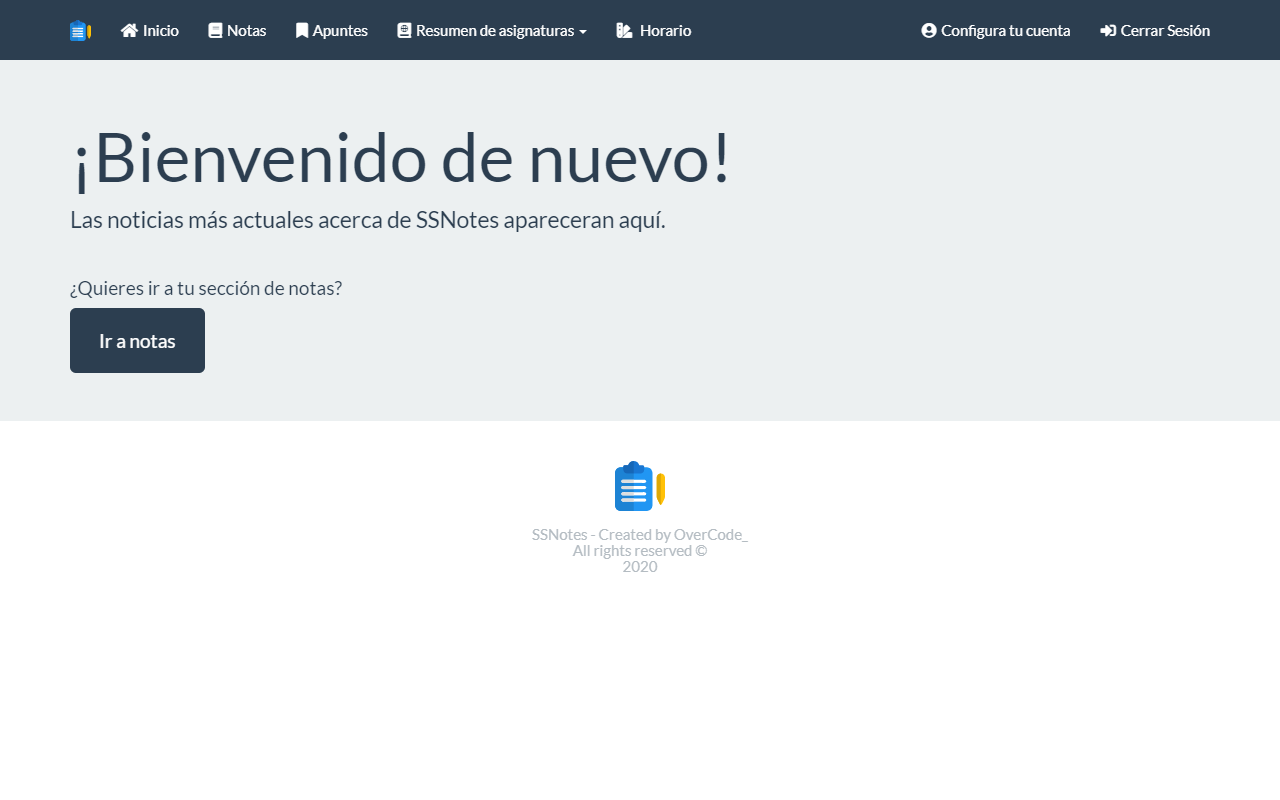
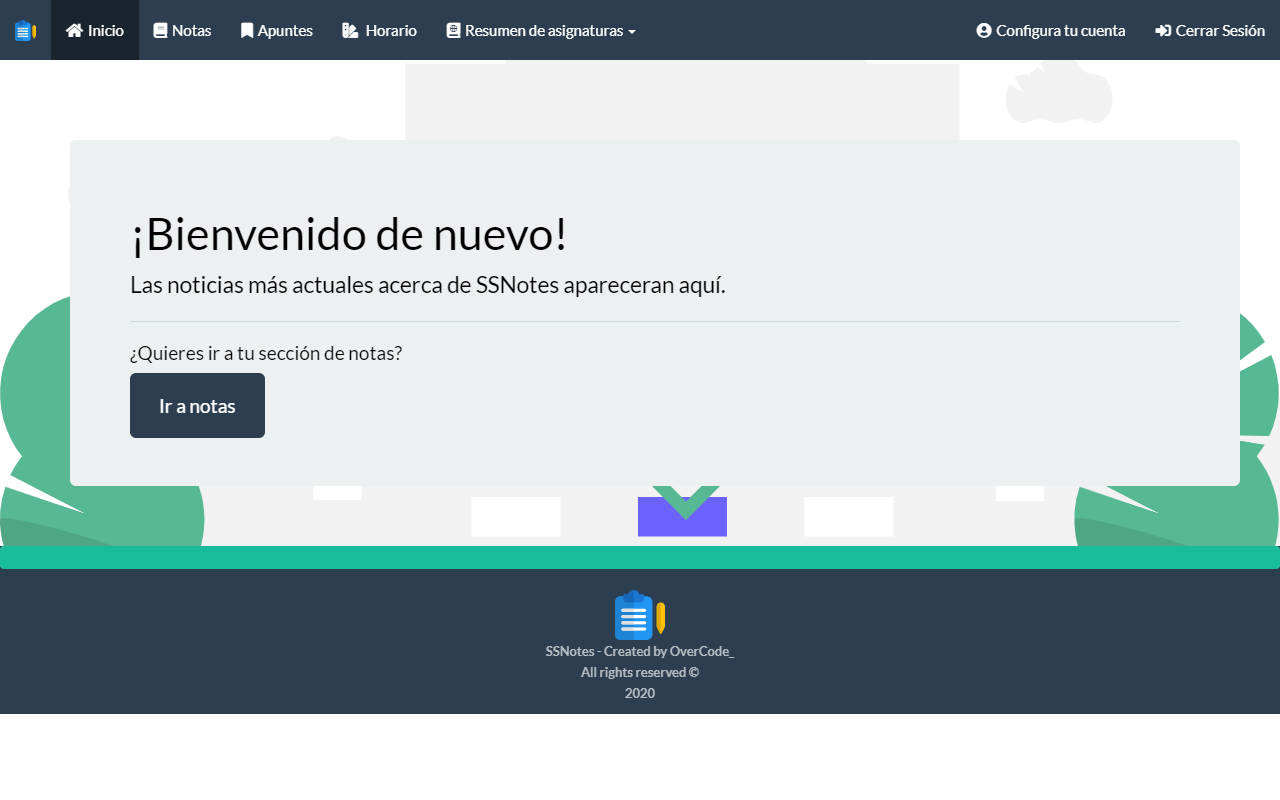
Se quitó carpeta de imágenes que estaba de más y se arreglaron 2 bugs, uno que no mostraba el navbar en smartphones y el otro que el navbar se fusionaba con los demás componentes haciendo que estos no actuaran por cuenta propia.

diff --git a/static/css/custom.min.css b/static/css/custom.min.css
@@ -22,7 +22,6 @@ body > .navbar {
 #home .navbar-brand > img {
     display: inline;
     margin: 0 10px;
-    height: 100%;
 }
 #banner {
     min-height: 300px;

diff --git a/panel/components/navbar.php b/panel/components/navbar.php
@@ -1,11 +1,19 @@
-<div class="navbar navbar-default navbar-fixed-top">
-    <div class="container">
+<nav class="navbar navbar-default navbar-fixed-top">
+    <div class=" container-fluid">
         <div class="navbar-header">
+            <button type="button" class="navbar-toggle collapsed" data-toggle="collapse"
+                data-target="#bs-example-navbar-collapse-1">
+                <span class="sr-only"></span>
+                <span class="icon-bar"></span>
+                <span class="icon-bar"></span>
+                <span class="icon-bar"></span>
+            </button>
             <img src="../static/img/logo.svg" alt="SSNotes" class="navbar-brand">
         </div>
-        <div class="navbar-collapse collapse" id="navbar-main">
+
+        <div class="collapse navbar-collapse" id="bs-example-navbar-collapse-1">
             <ul class="nav navbar-nav">
-                <li class="dropdown">
+                <li class="active">
                     <a href="index.php"><i class="fas fa-home" style="padding-right:5px"></i>Inicio</a>
                 </li>
                 <li>
@@ -14,12 +22,15 @@
                 <li>
                     <a href="#"><i class="fas fa-bookmark" style="padding-right:5px"></i>Apuntes</a>
                 </li>
+                <li>
+                    <a href="#"><i class="fas fa-swatchbook" style="padding-right:5px"></i> Horario</a>
+                </li>
                 <li class="dropdown">
                     <a class="dropdown-toggle" data-toggle="dropdown" href="#" id="download">
-                    <i class="fas fa-atlas" style="padding-right:5px"></i>Resumen de asignaturas <span
+                        <i class="fas fa-atlas" style="padding-right:5px"></i>Resumen de asignaturas <span
                             class="caret"></span></a>
                     <ul class="dropdown-menu" aria-labelledby="download">
-                        <li><a href="https://jsfiddle.net/bootswatch/jmg3gykg/">Cálculo</a></li>
+                        <li><a href="#">Cálculo</a></li>
                         <li class="divider"></li>
                         <li><a href="#">Bases de datos 1</a></li>
                         <li><a href="#">Desarrollo de software 1</a></li>
@@ -31,16 +42,11 @@
                         <li><a href="#">Introducción a la gestión ambiental</a></li>
                     </ul>
                 </li>
-                <li>
-                    <a href="#"><i class="fas fa-swatchbook" style="padding-right:5px"></i> Horario</a>
-                </li>
             </ul>
-
             <ul class="nav navbar-nav navbar-right">
                 <li><a href="#"><i class="fas fa-user-circle" style="padding-right:5px"></i>Configura tu cuenta</a></li>
                 <li><a href="#"><i class="fas fa-sign-in-alt" style="padding-right:5px"></i>Cerrar Sesión</a></li>
             </ul>
-
         </div>
     </div>
-</div>
+    

diff --git a/panel/layouts/scripts.php b/panel/layouts/scripts.php
@@ -1,11 +1,11 @@
 <!-- Optional JavaScript -->
-<!-- jQuery first, then Popper.js, then Bootstrap JS -->
-<script src="https://code.jquery.com/jquery-3.5.1.slim.min.js"
-    integrity="sha384-DfXdz2htPH0lsSSs5nCTpuj/zy4C+OGpamoFVy38MVBnE+IbbVYUew+OrCXaRkfj" crossorigin="anonymous">
-</script>
-<script src="https://cdn.jsdelivr.net/npm/popper.js@1.16.0/dist/umd/popper.min.js"
-    integrity="sha384-Q6E9RHvbIyZFJoft+2mJbHaEWldlvI9IOYy5n3zV9zzTtmI3UksdQRVvoxMfooAo" crossorigin="anonymous">
-</script>
-<script src="https://stackpath.bootstrapcdn.com/bootstrap/4.5.0/js/bootstrap.min.js"
-    integrity="sha384-OgVRvuATP1z7JjHLkuOU7Xw704+h835Lr+6QL9UvYjZE3Ipu6Tp75j7Bh/kR0JKI" crossorigin="anonymous">
-</script>
+    <!-- jQuery first, then Popper.js, then Bootstrap JS -->
+    <script src="https://code.jquery.com/jquery-3.5.1.slim.min.js"
+        integrity="sha384-DfXdz2htPH0lsSSs5nCTpuj/zy4C+OGpamoFVy38MVBnE+IbbVYUew+OrCXaRkfj" crossorigin="anonymous">
+    </script>
+    <script src="https://cdn.jsdelivr.net/npm/popper.js@1.16.0/dist/umd/popper.min.js"
+        integrity="sha384-Q6E9RHvbIyZFJoft+2mJbHaEWldlvI9IOYy5n3zV9zzTtmI3UksdQRVvoxMfooAo" crossorigin="anonymous">
+    </script>
+    <script src="https://stackpath.bootstrapcdn.com/bootstrap/4.5.0/js/bootstrap.min.js"
+        integrity="sha384-OgVRvuATP1z7JjHLkuOU7Xw704+h835Lr+6QL9UvYjZE3Ipu6Tp75j7Bh/kR0JKI" crossorigin="anonymous">
+    </script>

diff --git a/panel/components/footer.php b/panel/components/footer.php
@@ -1,13 +1,15 @@
-<div class="container mx-auto" style="width: 400px;">
-    <div class="row">
-        <div class="formulario-login col">
-            <div class="form-group">
-                <img src="../static/img/logo.svg" alt="SSNotes" width="50px">
-            </div>
-            <div class="form-group">
-                <h5 class="text-muted text-center">SSNotes - Created by OverCode_<br>
-                    All rights reserved ©<br>
-                    2020</h5>
+<div class="bg-primary">
+    <div class="panel panel-success text-center">
+        <div class="panel-heading">
+        </div>
+    </div>
+    <div class="container mx-auto">
+        <div class="row">
+            <div class="col-4 mx-auto text-center">
+                <img src="../static/img/logo.svg" alt="SSNotes" width="50px" class="mx-auto d-block">
+                <p class="text-muted text-center"><small><strong>SSNotes - Created by OverCode_<br>
+                            All rights reserved ©<br>
+                            2020</strong></small></p>
             </div>
         </div>
     </div>

diff --git a/panel/content/start.php b/panel/content/start.php
@@ -1,9 +1,11 @@
-<div class="jumbotron">
-    <div class="container">
-        <h1 class="display-4">¡Bienvenido de nuevo!</h1>
-        <h4 class="lead">Las noticias más actuales acerca de SSNotes apareceran aquí.</h4>
-        <hr class="my-4">
-        <h4>¿Quieres ir a tu sección de notas?</h4>
-        <a class="btn btn-primary btn-lg" href="#" role="button">Ir a notas</a>
+<div class="splash">
+    <div class="container text-left">
+        <div class="container jumbotron">
+            <h1 class="display-4">¡Bienvenido de nuevo!</h1>
+            <h4 class="lead">Las noticias más actuales acerca de SSNotes apareceran aquí.</h4>
+            <hr class="my-4">
+            <h4>¿Quieres ir a tu sección de notas?</h4>
+            <a class="btn btn-primary btn-lg" href="#" role="button">Ir a notas</a>
+        </div>
     </div>
 </div>

diff --git a/panel/index.php b/panel/index.php
@@ -13,26 +13,26 @@
 </head>
 
 <body>
-    <?php 
-	//carga la plantilla con la header y el footer
+    <div>
+        <?php 
     require_once('components/navbar.php');	
     
  ?>
-    <div class="col">
+    </div>
+
+    <!--Contenido del sitio-->
+    <div>
         <?php 
-	//carga la plantilla con la header y el footer
     require_once('content/start.php');	
-    
  ?>
 
     </div>
-    <center>
+
+    <div>
         <?php 
-	//carga la plantilla con la header y el footer
     require_once('components/footer.php');	
-    
  ?>
-    </center>
+    </div>
 
     <?php
     require_once('layouts/scripts.php')
